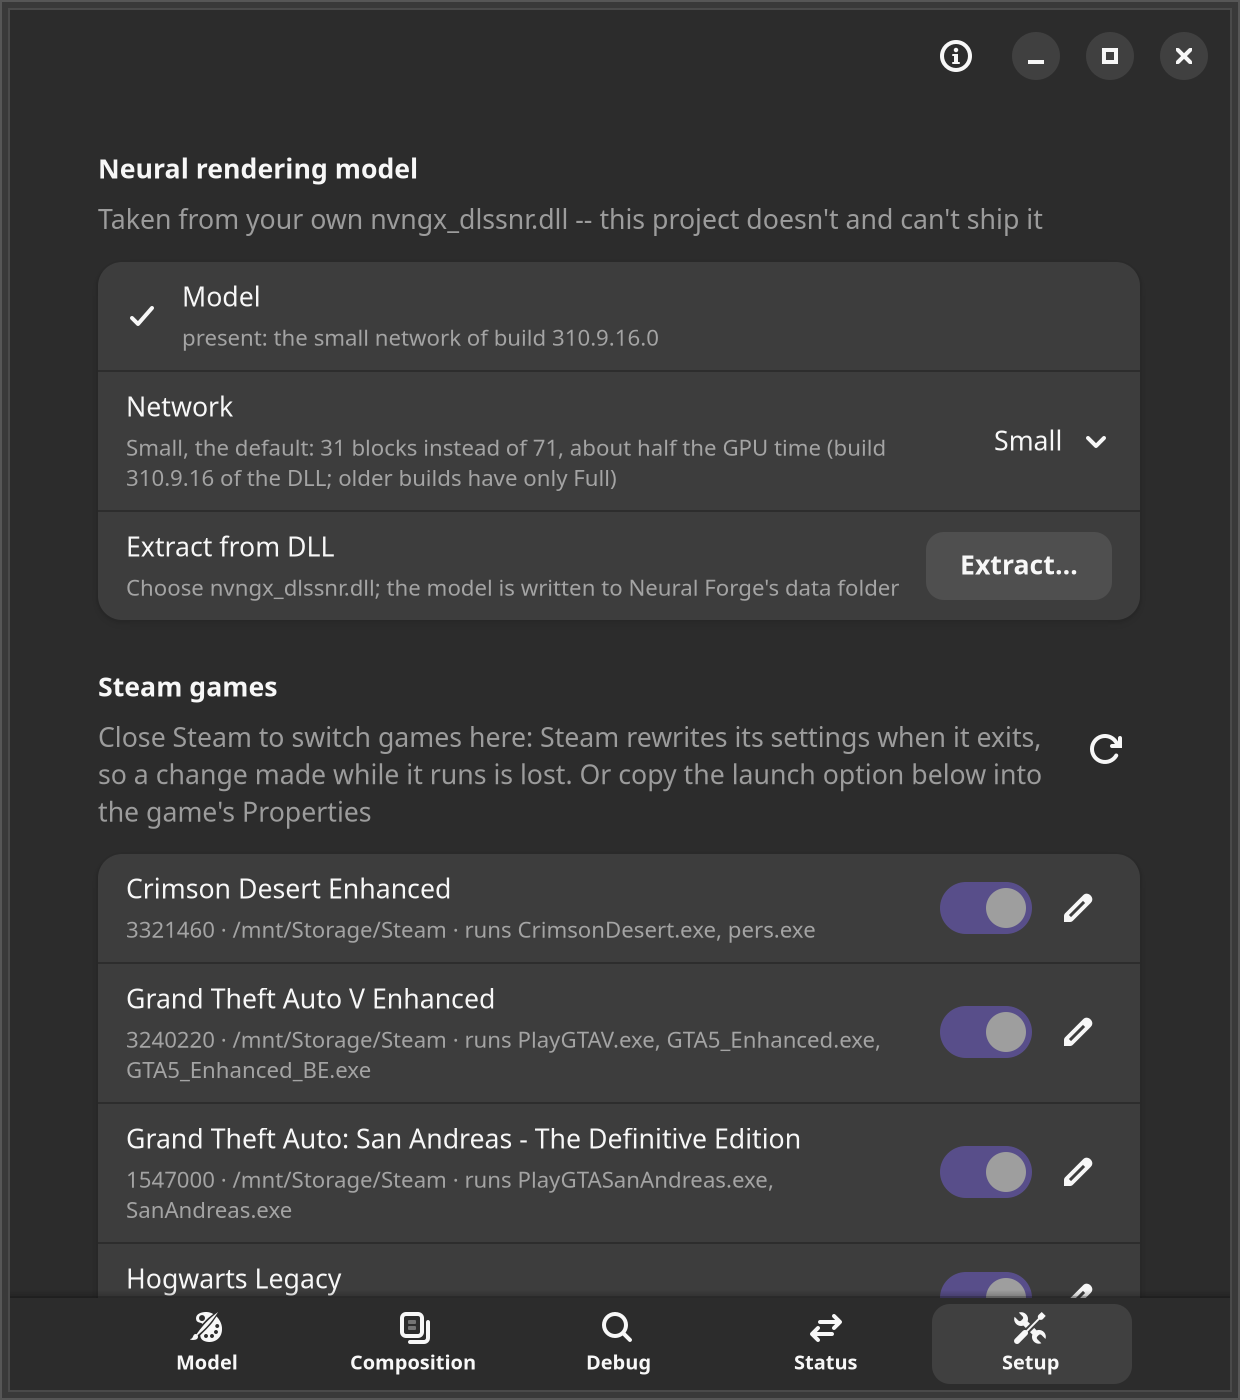
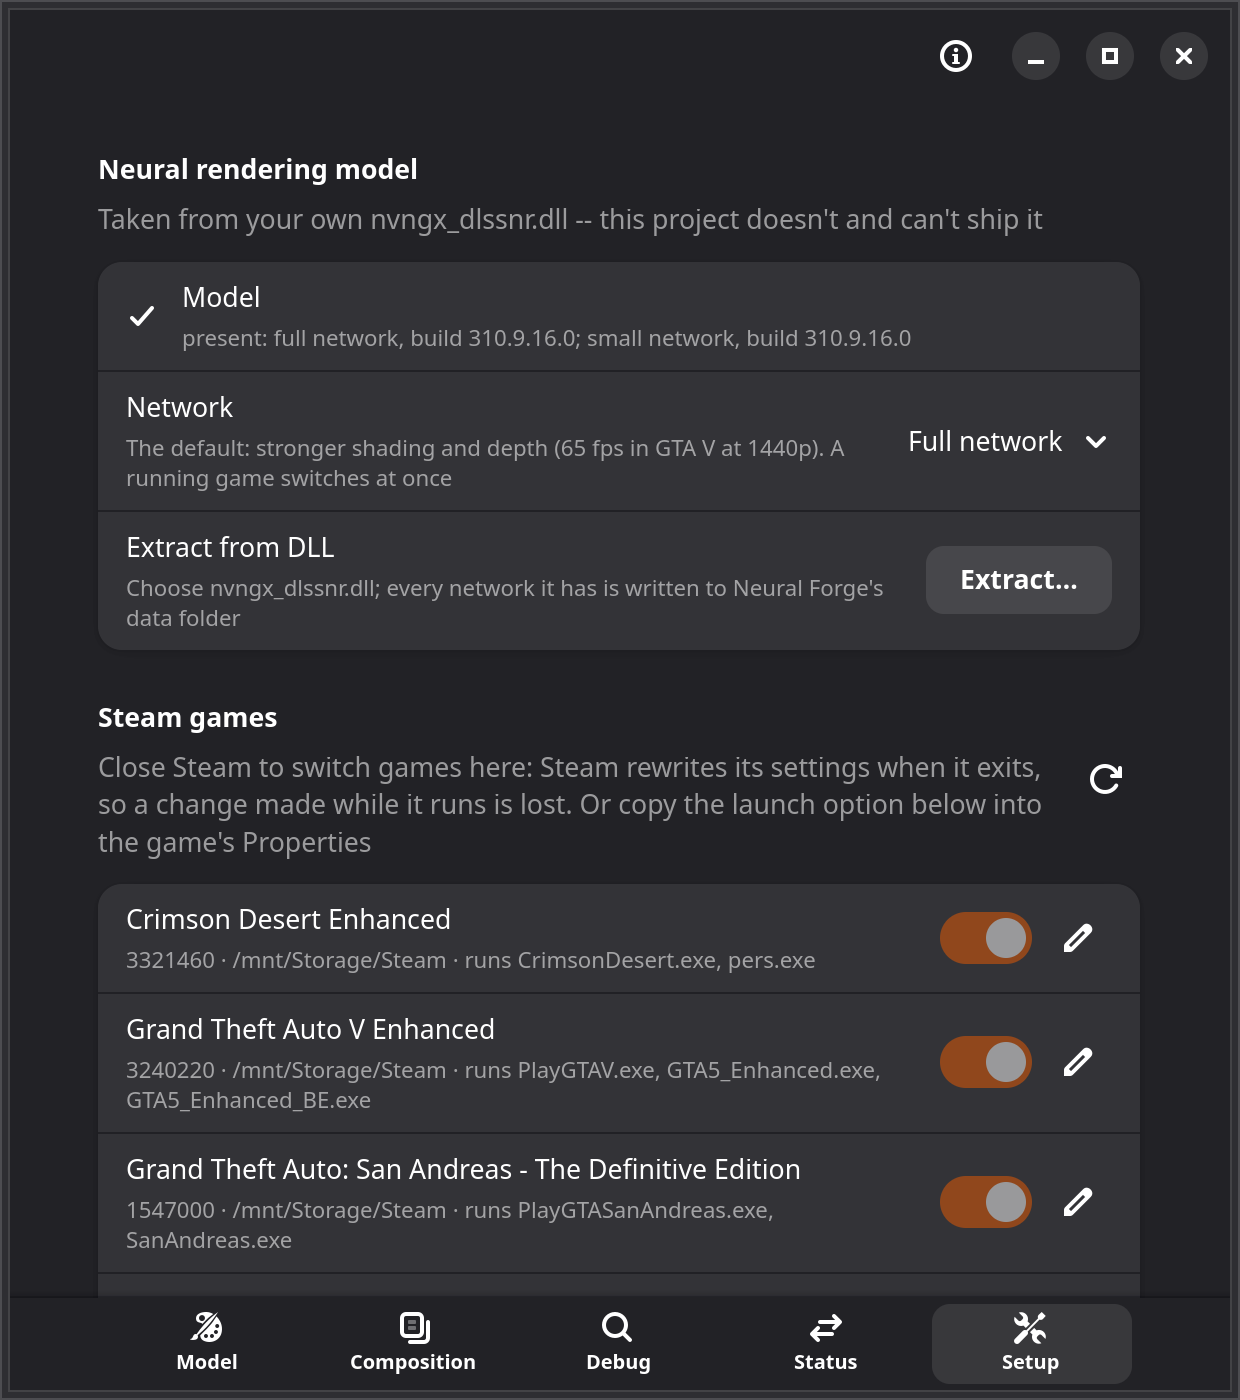
3.7.0: the network is a choice (full by default), the sky is kept, scene cuts reset, pass feedback
Measured in GTA V Enhanced at 1440p, FG 4x (HARDWARE_VALIDATION.md 2026-10-19):
full 65.2 real fps, small 73.4; the sky rule costs 0.08 ms per network frame and
halves the still shot's flicker; the scene-cut reset fires at the benchmark's
scripted cuts only and steadies the frames after them; pass feedback keeps 1 as
the default. Bottleneck reuse not built (at most 1.4-2.3%, under the 3% bar).

diff --git a/crates/gui/src/ui.rs b/crates/gui/src/ui.rs
@@ -1137,8 +1137,8 @@ const NETWORK_CHOICES: [&str; 2] = ["Full network", "Small network"];
 /// extracted (the layer runs the other network then).
 fn network_subtitle(network: Network) -> String {
     let what = match network {
-        Network::Full => "Stronger shading and depth. The default",
-        Network::Small => "Faster, with a subtler effect",
+        Network::Full => "The default: stronger shading and depth (65 fps in GTA V at 1440p)",
+        Network::Small => "Faster, with a subtler effect (73 fps in GTA V at 1440p)",
     };
     let root = std::path::PathBuf::from(neural_forge_supervisor::model::model_dir());
     let installed = neural_forge_supervisor::model::installed_all(&root);

diff --git a/README.md b/README.md
@@ -17,7 +17,7 @@ Repository: [labj1987/neural-forge](https://github.com/labj1987/neural-forge).
 
 | Model settings | Setup | Status |
 |---|---|---|
-| ![Model tab: the Neural rendering switch, style, strength presets, intensity, local tone, local and skin structure, auto mask and passes](screenshots/settings.png) | ![Setup tab: the model present (the small network of build 310.9.16.0), the Network choice, the Steam games with their switches, the executables they target and an edit button each, and the launch option NEURAL_FORGE_ENABLE=1 NEURAL_FORGE_TARGET_EXE=PlayGTAV.exe,GTA5_Enhanced.exe %command% for Grand Theft Auto V Enhanced](screenshots/setup.png) | ![Status tab: layer state, the Model placement line, the model, the settings reset and profiles, and the Diagnosis group with Diagnose and Save report](screenshots/status.png) |
+| ![Model tab: the Neural rendering switch, style, strength presets, intensity, local tone, local and skin structure, auto mask and passes](screenshots/settings.png) | ![Setup tab: the model present (the full and the small network of build 310.9.16.0), the Network choice, the Steam games with their switches, the executables they target and an edit button each, and the launch option NEURAL_FORGE_ENABLE=1 NEURAL_FORGE_TARGET_EXE=PlayGTAV.exe,GTA5_Enhanced.exe %command% for Grand Theft Auto V Enhanced](screenshots/setup.png) | ![Status tab: layer state, the Model placement line, the model, the settings reset and profiles, and the Diagnosis group with Diagnose and Save report](screenshots/status.png) |
 
 The screenshots show default settings with no game running.
 
@@ -89,14 +89,18 @@ How it works, step by step: [docs/ARCHITECTURE.md](docs/ARCHITECTURE.md).
 ## Measured results
 
 GTA V Enhanced's built-in benchmark on the test machine: RTX 5070 (12 GB), 2560x1440, DLSS Balanced,
-DLSS Frame Generation 4x, ray tracing on, script mods off, one run each, pass 4 (about 117 s). Real
-fps is the game's own frames; shown fps counts the generated ones too. Measured 2026-10-16.
+DLSS Frame Generation 4x, ray tracing on, script mods off, pass 4 (about 117 s), three runs each (the
+off row: one run, 2026-10-16). Real fps is the game's own frames; shown fps counts the generated ones
+too. Measured 2026-10-19 with the default settings (keep the game's sky on, one pass).
 
-| Model | Real fps | Shown fps | Network time per frame | Weights in video memory |
+| Model | Real fps | Shown fps | Network GPU time on the frames it runs | Weights in video memory |
 |---|---|---|---|---|
 | Off (Neural Forge not loaded) | 76.8 | 309.0 | - | - |
-| Full network | 56.8 | 228.1 | 16.0 ms | 140 MB |
-| Small network | 63.7 | 256.2 | 9.95 ms | 108 MB |
+| Full network | 65.2 | 262.4 | 6.9 ms | 140 MB |
+| Small network | 73.4 | 295.4 | 3.9 ms | 108 MB |
+
+The network runs on every frame while the camera is still and on every second frame while it moves (the
+edit cache carries it between), so about half the frames pay its time in this benchmark.
 
 The network's time per frame on its own (`dlss5vk bench`, 1707x960, the DLSS input of GTA V at DLSS
 Quality): full 7.03 ms, small 3.81 ms. In the game it also waits for the game's own GPU work. Games
@@ -290,6 +294,8 @@ Two passes of the small network cost about as much as one pass of the full netwo
 over-processed: grittier stone and noisier roads. Each pass keeps its own history, so the passes do not
 blend toward each other's pictures over time. **Per-pass settings** (Edit…) let each pass use its own
 intensity, local tone, local structure, skin structure, style or auto mask instead of the Model tab's.
+**Pass feedback** (0 to 1, default 1) sets how much of a pass's picture the next pass works on; lower
+values keep more of the pass's own input, so the passes add less to each other.
 
 ![Per-pass settings: the pass to edit, and an override switch with its value for intensity, local tone, local structure, skin structure, style and auto mask](screenshots/passes.png)
 
@@ -311,10 +317,11 @@ takes is withdrawn after 5 seconds.
 - **The game's DLSS Frame Generation does not always switch on.** In the benchmark runs the game
   generated frames in some launches and not in others with the same settings, with or without
   Neural Forge. The fps counter shows which happened.
-- **4K is not tested.** The network needs about 1.5 GB of video memory at that size, and on a 12 GB
-  card 4K with frame generation and the model on sits at the memory limit: its frame rate changes
-  from run to run. A network build that fails is retried on a schedule, and frames go to DLSS
-  untouched meanwhile.
+- **4K is at the memory limit on a 12 GB card.** One run of GTA V Enhanced at 3840x2160 with frame
+  generation 4x and the small network (texture quality one step down) ran steadily at 35.6 real fps
+  with the video memory at 11.9 of 12.2 GB; the full network there has collapsed to a few fps at the
+  limit. A network build that fails is retried on a schedule, and frames go to DLSS untouched
+  meanwhile.
 - **Unreal Engine 5 games are only partly tested.** Lords of the Fallen ran in game with frame
   generation, and Remnant II at its character select screen with frame generation, with no GPU fault
   in those measurements. The Black Myth: Wukong Benchmark Tool faulted the GPU

diff --git a/docs/LESSONS.md b/docs/LESSONS.md
@@ -1140,6 +1140,47 @@ a game at that size), peak VRAM 11863 of 12227 MiB, no miss, no Xid, no out-of-m
 15% under frame generation's memory pressure without collapsing. Two passes at 4K were not run: there is
 no memory left for them.
 
+## October 19: the RenoDX handoff (3.7.0)
+
+Users comparing NVIDIA's full and small networks found the small one much weaker (barely darkened crevices,
+moved shadows, changed faces, sharpening, a "deep fried" moment after cuts). 3.7.0 makes the network a live
+choice with the full one as the default, adds a scene-cut reset, a per-pixel control mask with a sky rule and
+pass feedback. Measured in GTA V Enhanced at 1440p, FG 4x, Preset C, mods off, pass 4.
+
+- **The network choice.** Full 65.2 real / 262.4 shown fps (65.3, 65.4, 65.1), the network 6.89 ms on the
+  frames it runs; small 73.4 / 295.4 (72.7, 73.7, 73.8), 3.90 ms. Same as 3.6.0 within the spread (65.6 and
+  74.3). A live switch in a running benchmark (full to small 30 s into the long pass, back 30 s later): each
+  network built in 1.2-1.5 s, the history reset on each switch, no miss (the frames during the load go to
+  DLSS untouched), no Xid. On the still shot the full network flickers less and adds more detail than the
+  small one (0.75% against 1.27%, x1.53 against x1.32; one run each).
+- **The control mask** (NATIVE_BACKEND.md, "The control mask"): 0.08 ms per network frame for the sky rule
+  (6.89 against 6.81 ms full, 3.90 against 3.82 small), fps unchanged (65.2 against 65.2, 73.4 against 73.9).
+  GTA V Enhanced is reversed-Z (the edit cache's verdict: about 17% of texels at exactly 0). On the still
+  shot the sky rule halves the settled flicker (0.75% against 1.50%). The sky keeps its own blue there
+  (without the rule the network greys it), but it is not identical to the effect off: a patch of open sky
+  read 137/150/161 against 121/136/154 off and 142/150/158 without the rule. The mask leaves those pixels as
+  they were (bit for bit in the GPU test), so what remains is the game's own response to the rest of the
+  edited frame (its exposure) and DLSS's temporal blend near edges, not an edit of the sky.
+- **Scene cuts.** Three resets in every benchmark run, all in the long free-roam pass at its scripted camera
+  cuts (luma changes 52-68 of 255 against the threshold of 40), none in the other passes or on loading
+  screens (no false positives seen in 15 runs). On the still shot after its cut, the full network with the
+  reset against without it (`NEURAL_FORGE_SCENE_CUT=off`): 1.07% against 1.17% flicker just after the cut,
+  0.75% against 2.29% once the shot has settled: without it the previous scene's history blends in.
+- **Pass feedback**: lower values lower the added detail steadily, flicker does not move beyond noise; 1
+  stays the default (NATIVE_BACKEND.md, "Pass feedback").
+- **Bottleneck reuse (handoff item 5): not built.** The ViT bottleneck recomputed every other frame saves
+  at most about a tenth of the network's time (the reference's figure). With the edit cache the network runs
+  on about half the frames already, so the gain per frame is at most 0.19 ms of a 13.6 ms small-network
+  frame (1.4%) and 0.34 ms of 15.3 ms for the full one (2.3%), both under the 3% the handoff set, and it
+  needs a change to OpenDLSS-NR's graph. Measured network times from this table; the per-launch profile
+  (October 16, above) puts the encoder and the ViT together at 3.35 of the full network's 6.11 ms at
+  1486x836.
+- **bench-iq.py's settle lands after the still shot when the capture slows the game.** The series capture
+  reads every presented frame back, which slows the game, so GTA's still shot (about a second) holds fewer
+  rendered frames than the 30 the default settle skips at FG 4x, and the window measured the camera moving
+  again (20% "flicker"). The numbers above put a 9-frame window 40 presented frames (settled) and 8 frames
+  (just after) after each series' own cut instead, with bench-iq.py's flicker and detail functions.
+
 ## Deliberately not done, or left open
 
 - **Phases 2 and 3 of the original 2.0 plan** (a cheaper model resolution on the zero-copy path,

diff --git a/CHANGELOG.md b/CHANGELOG.md
@@ -16,18 +16,21 @@ first shipped them; their phase is kept as a subheading.
 - **The full network is the default again**, also for a DLL that carries the small one.
 - `neural-forge-cli extract-model DIR` extracts every network the DLL has; `--network full|small`
   extracts only that one and leaves the other as it is.
-- After updating, extract the model again (Setup tab, Extract from DLL): the networks are now kept in
-  their own folders, and the layer does not read a model extracted by an earlier version. Close any game
-  running with Neural Forge before opening the app: this version changes the settings the app and the
-  game share.
 - **The game's sky stays as it is.** Before the upscaler, Neural Forge no longer edits the sky (found from
   the game's depth), so it stays clean and steady. "Keep the game's sky" on the Model tab turns it off.
 - **More mask rules** (Model tab): the model's edit can fade out in dark areas or in fast motion, each with
   its own brightness or motion and how much intensity and structure to keep. Both are off by default.
+- **Pass feedback** (Model tab): with more than one pass, how much of a pass's picture the next pass works
+  on. Lower values keep more of each pass's own input, so extra passes add less: three passes at 0.5 look
+  about like two at 1. The default, 1, is the pass's picture itself.
 - **Scene cuts start the model afresh.** Before the upscaler, when the picture changes completely from
   one frame to the next (a cut in a cutscene, a respawn, a camera switch), the model no longer blends
   the previous scene into the first frames of the new one. The Debug tab counts these frames under
   Scene cuts.
+- After updating, extract the model again (Setup tab, Extract from DLL): the networks are now kept in
+  their own folders, and the layer does not read a model extracted by an earlier version. Close any game
+  running with Neural Forge before opening the app: this version changes the settings the app and the
+  game share.
 
 ## 3.6.0 — 2026-10-19
 

diff --git a/docs/NATIVE_BACKEND.md b/docs/NATIVE_BACKEND.md
@@ -865,6 +865,27 @@ mask (`the_control_mask_keeps_the_sky_lowers_structure_and_changes_nothing_when_
 all-ones mask against none). Every pass of a multi-pass frame reads the same mask, built from the original
 frame.
 
+## Pass feedback (3.7.0, 2026-10-19)
+
+`pass_feedback` (0 to 1, default 1) sets the next pass's colour input to the previous pass's input moved
+toward its answer: input + feedback x (answer - input), the idea of janblade/OptiScaler-F5-DLSSNR-Multipass's
+`DlssNr.PassFeedback` (v0.1.18 notes, ideas only). At 1 the copy between passes stays as it was (bit for
+bit); below 1 `native_feedback.comp` blends in place in the encoded image before the upscaler (`X`, `Y`), and
+`native_post_feedback.comp` into the scratch after it (from the frame for pass 2, in place after).
+
+GTA V Enhanced, 1440p, FG 4x, the small network, the still shot after its cut (one run each; flicker and
+added detail with bench-iq.py's functions on a window placed 40 presented frames after each series' own cut,
+against the effect off at 0.931%):
+
+| Passes | Feedback 1.0 | 0.7 | 0.5 | 0.3 |
+|---|---|---|---|---|
+| 2 | 0.78%, x2.05 | 0.77%, x1.92 | 0.80%, x1.87 | 1.50%, x1.37 |
+| 3 | 0.92%, x2.51 | 1.01%, x2.12 | 0.89%, x1.97 | 0.67%, x1.90 |
+
+(One pass: 1.27%, x1.32.) Lower feedback lowers the added detail steadily (the over-processing of extra
+passes); flicker does not move beyond the run-to-run noise. No value is clearly better, so 1 stays the
+default.
+
 ## Decided before Phase 1
 
 1. **The extractor in a public repository.** `extract-model` reads NVIDIA's weights out of the DLL

diff --git a/docs/HARDWARE_VALIDATION.md b/docs/HARDWARE_VALIDATION.md
@@ -1345,3 +1345,30 @@ engage frame generation were repeated.
 
 After the upscaler (`pan`, 2492x1370, no history): the model server's time 9.4 / 18.9 / 28.2 ms at 1 / 2 /
 3 passes; 2 passes with counter chaining and with barriers gave 60 of 60 identical frames.
+
+
+## 2026-10-19: 3.7.0 (network choice, control mask, scene cuts, pass feedback)
+
+GTA V Enhanced built-in benchmark, 2560x1440@288 VRR, desktop HDR as set, DLSS Balanced, FG 4x with Preset C,
+script mods off, pass 4. Defaults unless named (keep the sky on, one pass, feedback 1).
+
+| Configuration | Real fps | Shown fps | Network ms | Peak VRAM MiB |
+|---|---|---|---|---|
+| full (3 runs) | 65.2 (65.3 / 65.4 / 65.1) | 262.4 | 6.89 | 10017-10042 |
+| small (3 runs) | 73.4 (72.7 / 73.7 / 73.8) | 295.4 | 3.90 | 10001-10082 |
+| full, sky off | 65.2 | 261.9 | 6.81 | 9993 |
+| small, sky off | 73.9 | 296.6 | 3.82 | 10047 |
+
+Still-shot captures (220 frames from 69.5 s after the long pass's start; a 9-frame window 40 presented
+frames after each series' cut, and 8 after it), flicker and added detail against the effect off (0.931%
+settled, 0.845% just after):
+
+| Capture | Settled | Just after the cut |
+|---|---|---|
+| full | 0.750%, x1.53 | 1.070%, x1.23 |
+| full, sky off | 1.500%, x1.27 | 1.053%, x1.33 |
+| full, scene-cut reset off | 2.285%, x1.21 | 1.166%, x1.18 |
+| small | 1.267%, x1.32 | 1.000%, x1.22 |
+
+Pass feedback (small network): NATIVE_BACKEND.md, "Pass feedback". Scene cuts: 3 per run, all at the
+long pass's scripted cuts. A live network switch mid-run: rebuilt in 1.2-1.5 s, no miss, no Xid.
